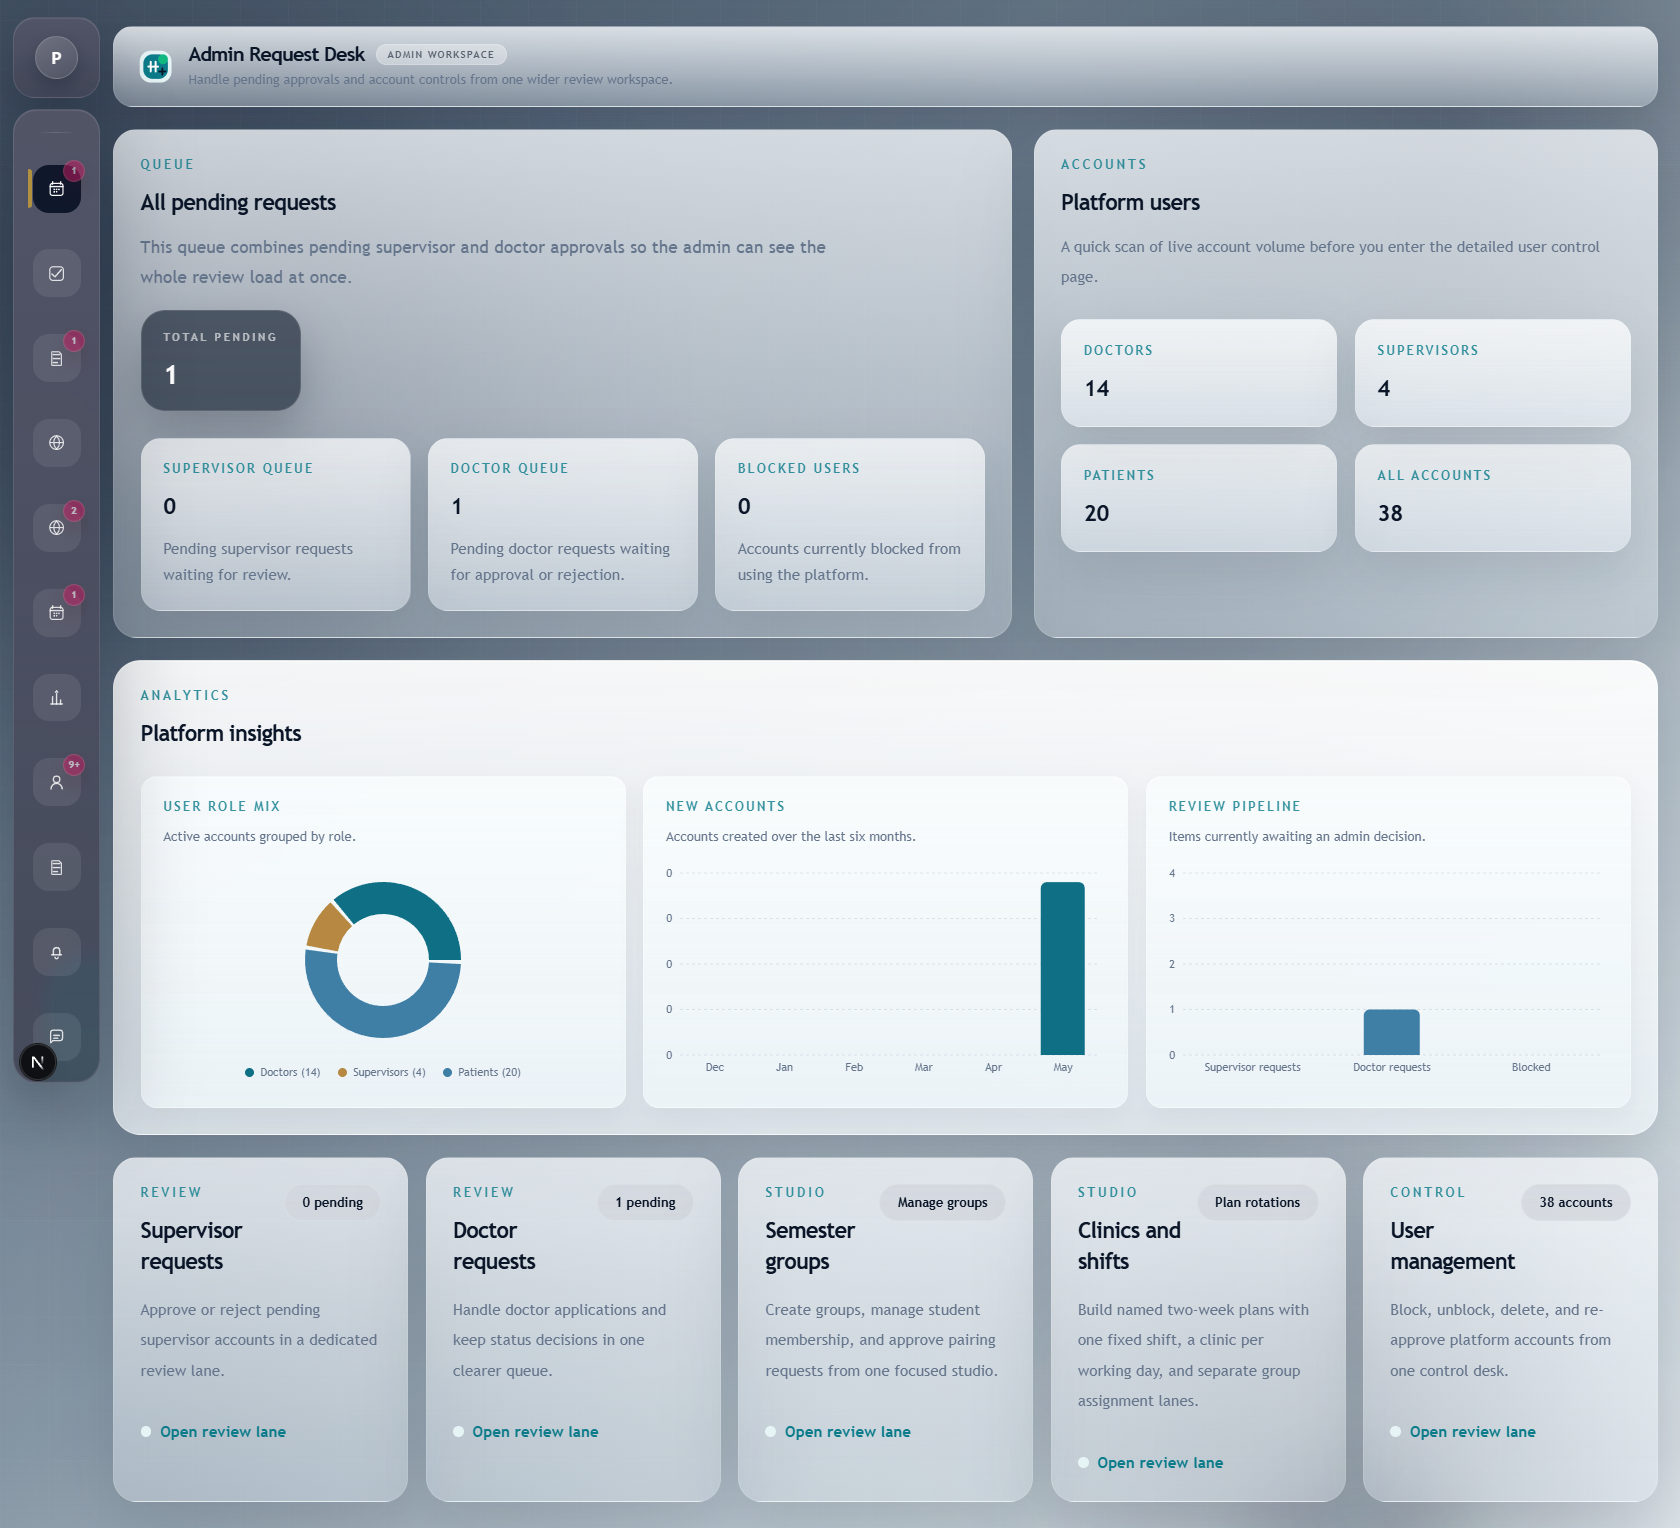
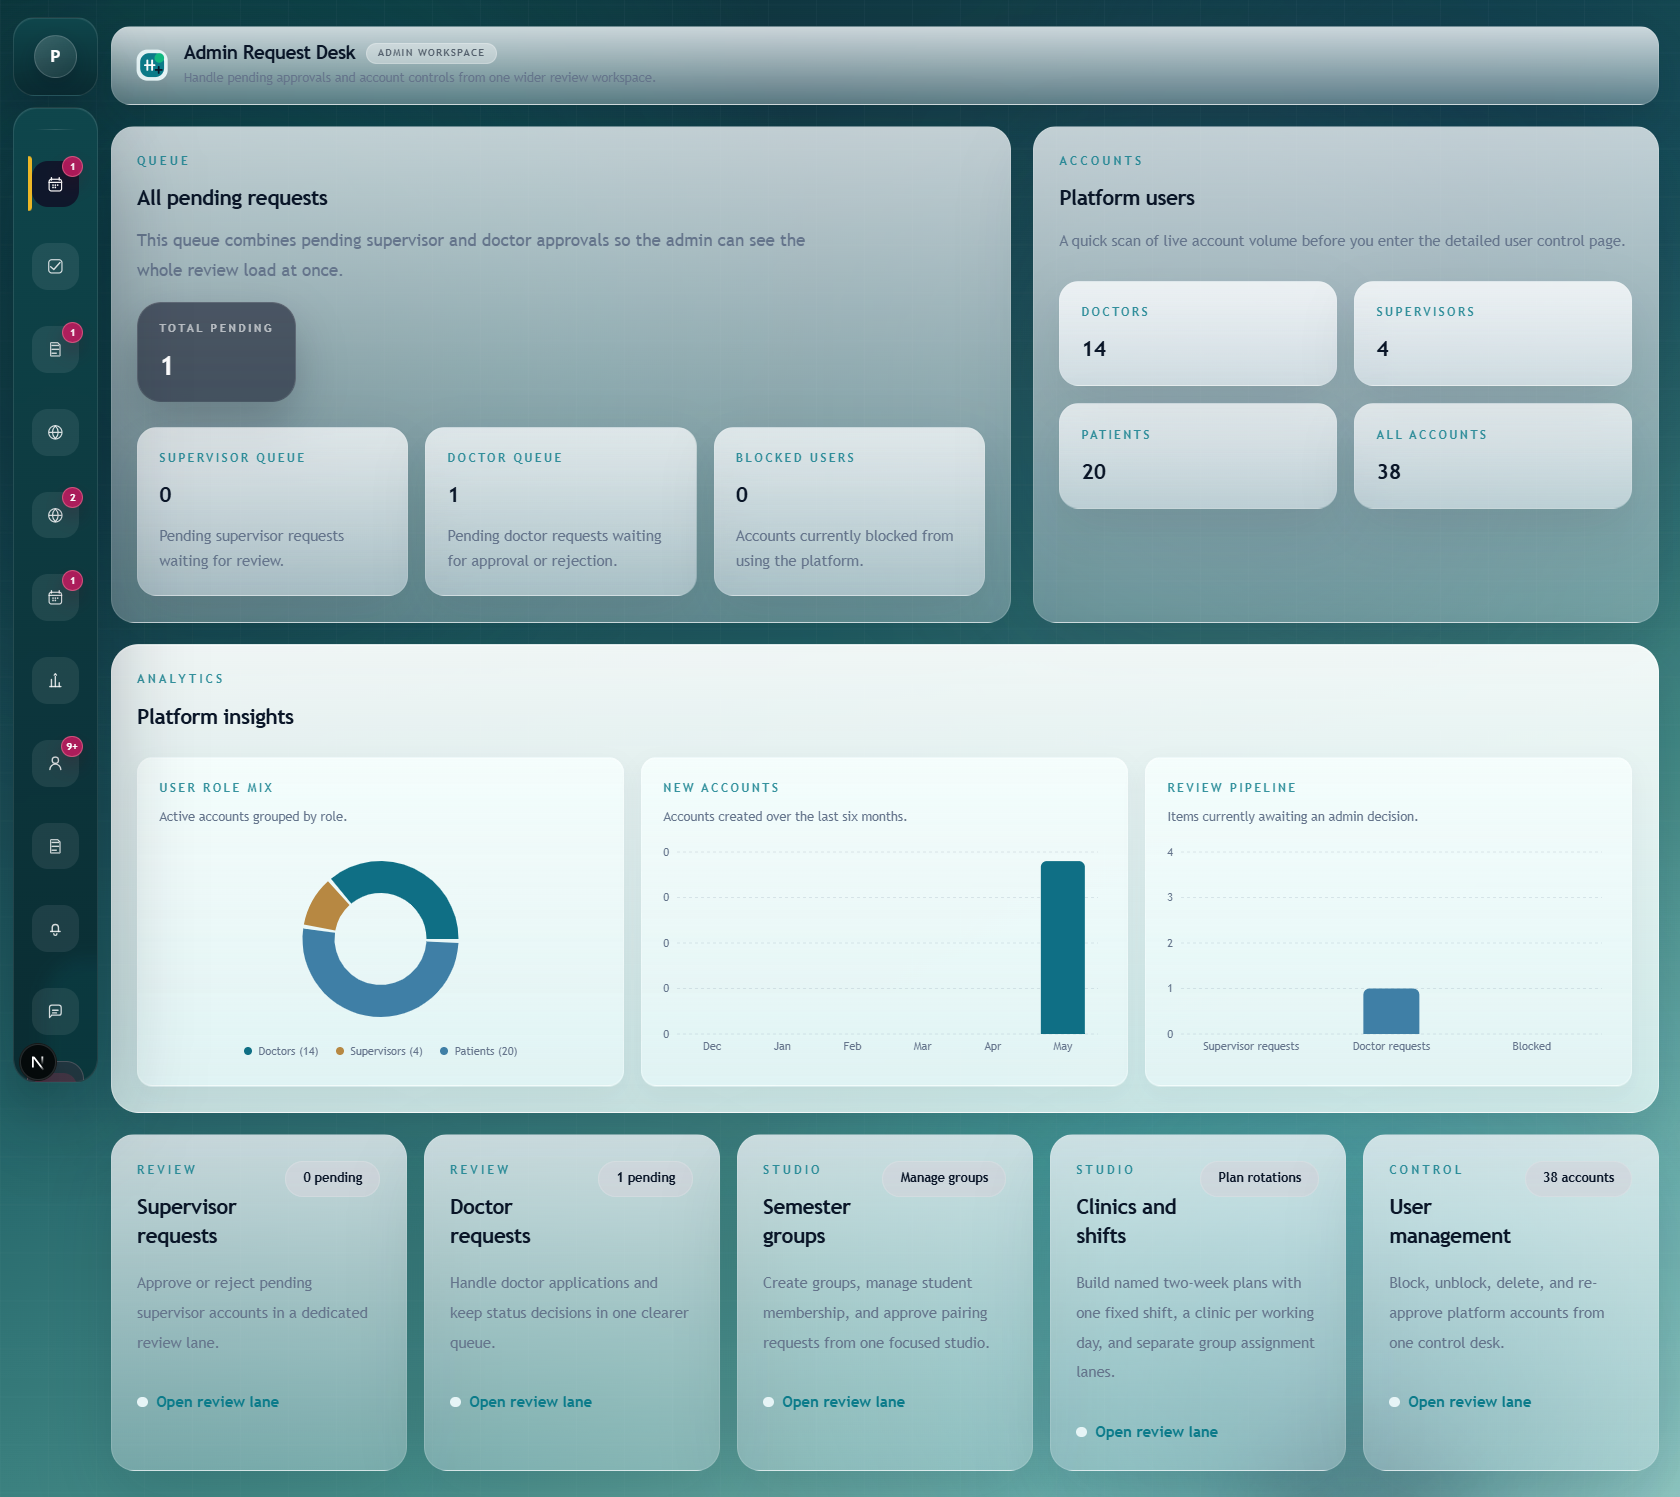
Update rail theme and global styles, add diag
Add a Playwright diagnostic script (frontend/diag.mjs) to log in and inspect the side rail layout. Refresh side-rail visuals across roles (doctor, patient, supervisor, admin) by replacing the old gray gradients with a darker teal gradient. Update globals.css to adjust body padding, refine collapsed rail active-icon styling, overhaul admin-suite and panel/card gradient colors, and increase base font-size to 17px. Also update admin/doctor screenshots (shot-admin.png, shot-doctor.png) to match the visual changes.

diff --git a/frontend/src/app/globals.css b/frontend/src/app/globals.css
@@ -150,6 +150,7 @@ body {
      * Reserve its lane here (rail width + edge inset + gap). The rail sits
      * on the right by default; admin overrides to the left below. */
     padding-right: calc(5rem + 1.5rem);
+    padding-left: 1.75rem;
   }
 
   /* Side rail: always-expanded at a comfortable 16.5rem width. The previous
@@ -256,13 +257,22 @@ body {
   }
 
   /* Collapsed: the active tab's highlight wraps just the icon — drop the
-   * full-width white pill so it doesn't look like a stray box. The icon's
-   * own dark active fill + the accent bar still mark the selection. */
+   * full-width white pill so it doesn't look like a stray box. */
   .denty-rail-column:not(:hover)
     .denty-rail-action:has(.denty-rail-accent[data-active="true"]) {
     background-color: transparent;
     border-color: transparent;
     box-shadow: none;
+  }
+
+  /* ...and make the active icon itself bright so it clearly pops against
+   * the dark teal rail (the icon span is the 2nd child of the row). */
+  .denty-rail-column:not(:hover)
+    .denty-rail-action:has(.denty-rail-accent[data-active="true"])
+    > :nth-child(2) {
+    background-color: #ffffff;
+    color: #0c3b41;
+    box-shadow: 0 6px 16px rgba(4, 11, 26, 0.34);
   }
 
   .denty-rail-column:not(:hover) .denty-rail-section-label,
@@ -732,10 +742,10 @@ html[dir="rtl"] .denty-mobile-drawer-sheet {
 
   .admin-suite-screen {
     background:
-      radial-gradient(circle at 12% 18%, rgba(94, 113, 133, 0.34), transparent 24%),
-      radial-gradient(circle at 86% 10%, rgba(20, 34, 54, 0.3), transparent 20%),
-      radial-gradient(circle at 72% 76%, rgba(78, 96, 117, 0.18), transparent 26%),
-      linear-gradient(135deg, #49586b 0%, #5f7184 22%, #7e8f9e 44%, #b6c2cb 72%, #dfe7ec 100%);
+      radial-gradient(circle at 14% 16%, rgba(13, 148, 136, 0.42), transparent 30%),
+      radial-gradient(circle at 88% 12%, rgba(8, 47, 73, 0.5), transparent 26%),
+      radial-gradient(circle at 78% 84%, rgba(34, 211, 238, 0.24), transparent 32%),
+      linear-gradient(150deg, #0b2b33 0%, #103f49 22%, #1b6064 45%, #3f8b86 70%, #93c7c0 100%);
   }
 
   .admin-suite-screen::before {
@@ -776,7 +786,7 @@ html[dir="rtl"] .denty-mobile-drawer-sheet {
   .denty-panel {
     border: 1px solid rgba(255, 255, 255, 0.34);
     background:
-      linear-gradient(180deg, rgba(255, 255, 255, 0.88), rgba(246, 250, 252, 0.74));
+      linear-gradient(180deg, rgba(250, 255, 254, 0.9), rgba(229, 247, 246, 0.78));
     box-shadow:
       var(--shadow-panel),
       inset 0 1px 0 rgba(255, 255, 255, 0.44);
@@ -789,7 +799,7 @@ html[dir="rtl"] .denty-mobile-drawer-sheet {
   .denty-panel-strong {
     border: 1px solid rgba(255, 255, 255, 0.4);
     background:
-      linear-gradient(180deg, rgba(255, 255, 255, 0.94), rgba(238, 245, 249, 0.78));
+      linear-gradient(180deg, rgba(251, 255, 254, 0.95), rgba(227, 246, 245, 0.83));
     box-shadow:
       var(--shadow-strong),
       inset 0 1px 0 rgba(255, 255, 255, 0.5);
@@ -827,7 +837,7 @@ html[dir="rtl"] .denty-mobile-drawer-sheet {
   .denty-dashboard-card {
     border: 1px solid rgba(255, 255, 255, 0.3);
     background:
-      linear-gradient(180deg, rgba(255, 255, 255, 0.9), rgba(242, 247, 250, 0.68));
+      linear-gradient(180deg, rgba(250, 255, 254, 0.92), rgba(228, 246, 245, 0.74));
     border-radius: var(--radius-lg);
     box-shadow:
       var(--shadow-panel),
@@ -839,7 +849,7 @@ html[dir="rtl"] .denty-mobile-drawer-sheet {
   .denty-dashboard-card-soft {
     border: 1px solid rgba(255, 255, 255, 0.26);
     background:
-      linear-gradient(180deg, rgba(247, 251, 252, 0.84), rgba(235, 243, 247, 0.58));
+      linear-gradient(180deg, rgba(244, 253, 252, 0.86), rgba(224, 243, 244, 0.64));
     border-radius: var(--radius-md);
     box-shadow:
       var(--shadow-soft),
@@ -851,7 +861,7 @@ html[dir="rtl"] .denty-mobile-drawer-sheet {
   .denty-list-row {
     border: 1px solid rgba(255, 255, 255, 0.24);
     background:
-      linear-gradient(180deg, rgba(255, 255, 255, 0.82), rgba(241, 247, 250, 0.62));
+      linear-gradient(180deg, rgba(249, 255, 254, 0.84), rgba(228, 245, 246, 0.66));
     border-radius: var(--radius-md);
     color: var(--foreground);
     box-shadow:
@@ -862,7 +872,7 @@ html[dir="rtl"] .denty-mobile-drawer-sheet {
 
   .denty-stat-card {
     border: 1px solid rgba(255, 255, 255, 0.28);
-    background: linear-gradient(180deg, rgba(224, 240, 246, 0.74), rgba(255, 255, 255, 0.78));
+    background: linear-gradient(160deg, rgba(205, 238, 232, 0.92), rgba(234, 249, 250, 0.86));
     border-radius: var(--radius-md);
     color: var(--foreground);
     box-shadow:
@@ -2488,5 +2498,11 @@ button:not(:disabled):active,
 .denty-pill:not(:disabled):active {
   transform: scale(0.97);
   transition: transform 0.07s ease;
+}
+
+/* Slightly larger base type across the app (rem-based, so it scales the
+ * whole UI proportionally). */
+html {
+  font-size: 17px;
 }
 

diff --git a/frontend/src/app/doctor/ui/doctor-side-rail.tsx b/frontend/src/app/doctor/ui/doctor-side-rail.tsx
@@ -232,7 +232,7 @@ function RailIdentityCard({
   const displayName = userName?.trim() || fallbackName;
   const initials = initialsOf(displayName);
   return (
-    <div className="denty-rail-identity rounded-[22px] border border-white/10 bg-[linear-gradient(180deg,rgba(82,85,103,0.96),rgba(67,71,88,0.94))] px-3 py-3 text-white backdrop-blur-[28px]">
+    <div className="denty-rail-identity rounded-[22px] border border-white/10 bg-[linear-gradient(180deg,rgba(15,70,76,0.97),rgba(9,42,48,0.97))] px-3 py-3 text-white backdrop-blur-[28px]">
       <div className="flex items-center gap-3">
         <span
           aria-hidden
@@ -296,7 +296,7 @@ export function DoctorSideRail({
           accent={accent}
         />
 
-      <aside className="frozen-stage denty-collapsible-rail rounded-[22px] border border-white/10 bg-[linear-gradient(180deg,rgba(82,85,103,0.96),rgba(67,71,88,0.94))] px-4 py-5 text-white backdrop-blur-[28px]">
+      <aside className="frozen-stage denty-collapsible-rail rounded-[22px] border border-white/10 bg-[linear-gradient(180deg,rgba(15,70,76,0.97),rgba(9,42,48,0.97))] px-4 py-5 text-white backdrop-blur-[28px]">
       <div className="flex min-h-full flex-col gap-3">
         <div className="mx-2 my-2 h-px bg-gradient-to-r from-transparent via-white/15 to-transparent" />
         <div className="denty-rail-section-label mb-1 px-2 text-[10px] font-semibold uppercase tracking-[0.24em] text-white/56">

diff --git a/frontend/src/app/patient/ui/patient-side-rail.tsx b/frontend/src/app/patient/ui/patient-side-rail.tsx
@@ -166,7 +166,7 @@ function RailIdentityCard({
   const displayName = userName?.trim() || fallbackName;
   const initials = initialsOf(displayName);
   return (
-    <div className="denty-rail-identity rounded-[22px] border border-white/10 bg-[linear-gradient(180deg,rgba(82,85,103,0.96),rgba(67,71,88,0.94))] px-3 py-3 text-white backdrop-blur-[28px]">
+    <div className="denty-rail-identity rounded-[22px] border border-white/10 bg-[linear-gradient(180deg,rgba(15,70,76,0.97),rgba(9,42,48,0.97))] px-3 py-3 text-white backdrop-blur-[28px]">
       <div className="flex items-center gap-3">
         <span
           aria-hidden
@@ -227,7 +227,7 @@ export function PatientSideRail({
           accent={accent}
         />
 
-      <aside className="frozen-stage denty-collapsible-rail rounded-[22px] border border-white/10 bg-[linear-gradient(180deg,rgba(82,85,103,0.96),rgba(67,71,88,0.94))] px-4 py-5 text-white backdrop-blur-[28px]">
+      <aside className="frozen-stage denty-collapsible-rail rounded-[22px] border border-white/10 bg-[linear-gradient(180deg,rgba(15,70,76,0.97),rgba(9,42,48,0.97))] px-4 py-5 text-white backdrop-blur-[28px]">
       <div className="flex min-h-full flex-col gap-3">
         <div className="mx-2 my-2 h-px bg-gradient-to-r from-transparent via-white/15 to-transparent" />
         <div className="denty-rail-section-label mb-1 px-2 text-[10px] font-semibold uppercase tracking-[0.24em] text-white/56">

diff --git a/frontend/src/app/supervisor/ui/supervisor-side-rail.tsx b/frontend/src/app/supervisor/ui/supervisor-side-rail.tsx
@@ -168,7 +168,7 @@ function RailIdentityCard({
   const displayName = userName?.trim() || fallbackName;
   const initials = initialsOf(displayName);
   return (
-    <div className="denty-rail-identity rounded-[22px] border border-white/10 bg-[linear-gradient(180deg,rgba(82,85,103,0.96),rgba(67,71,88,0.94))] px-3 py-3 text-white backdrop-blur-[28px]">
+    <div className="denty-rail-identity rounded-[22px] border border-white/10 bg-[linear-gradient(180deg,rgba(15,70,76,0.97),rgba(9,42,48,0.97))] px-3 py-3 text-white backdrop-blur-[28px]">
       <div className="flex items-center gap-3">
         <span
           aria-hidden
@@ -230,7 +230,7 @@ export function SupervisorSideRail({
           accent={accent}
         />
 
-      <aside className="frozen-stage denty-collapsible-rail rounded-[22px] border border-white/10 bg-[linear-gradient(180deg,rgba(82,85,103,0.96),rgba(67,71,88,0.94))] px-4 py-5 text-white backdrop-blur-[28px]">
+      <aside className="frozen-stage denty-collapsible-rail rounded-[22px] border border-white/10 bg-[linear-gradient(180deg,rgba(15,70,76,0.97),rgba(9,42,48,0.97))] px-4 py-5 text-white backdrop-blur-[28px]">
       <div className="flex min-h-full flex-col gap-3">
         <div className="mx-2 my-2 h-px bg-gradient-to-r from-transparent via-white/15 to-transparent" />
         <div className="denty-rail-section-label mb-1 px-2 text-[10px] font-semibold uppercase tracking-[0.24em] text-white/56">

diff --git a/frontend/src/features/admin/components/admin-shell.tsx b/frontend/src/features/admin/components/admin-shell.tsx
@@ -242,7 +242,7 @@ export function AdminShell({
             {/* Identity card — a separate panel pinned above the nav rail. */}
             <Link
               href="/admin"
-              className="denty-rail-identity block rounded-[22px] border border-white/10 bg-[linear-gradient(180deg,rgba(82,85,103,0.96),rgba(67,71,88,0.94))] px-3 py-3 text-white backdrop-blur-[28px] transition-colors hover:border-white/18"
+              className="denty-rail-identity block rounded-[22px] border border-white/10 bg-[linear-gradient(180deg,rgba(15,70,76,0.97),rgba(9,42,48,0.97))] px-3 py-3 text-white backdrop-blur-[28px] transition-colors hover:border-white/18"
             >
               <div className="flex items-center gap-3">
                 <span
@@ -276,7 +276,7 @@ export function AdminShell({
               </div>
             </Link>
 
-            <aside className="frozen-stage denty-collapsible-rail rounded-[24px] border border-white/10 bg-[linear-gradient(180deg,rgba(82,85,103,0.96),rgba(67,71,88,0.94))] px-3 py-4 text-white backdrop-blur-[28px]">
+            <aside className="frozen-stage denty-collapsible-rail rounded-[24px] border border-white/10 bg-[linear-gradient(180deg,rgba(15,70,76,0.97),rgba(9,42,48,0.97))] px-3 py-4 text-white backdrop-blur-[28px]">
             <div className="flex min-h-full flex-col gap-3">
             {/* Admin's nav search is load-bearing (filters real nav items
                 across 11 destinations), so it stays — restyled to match the